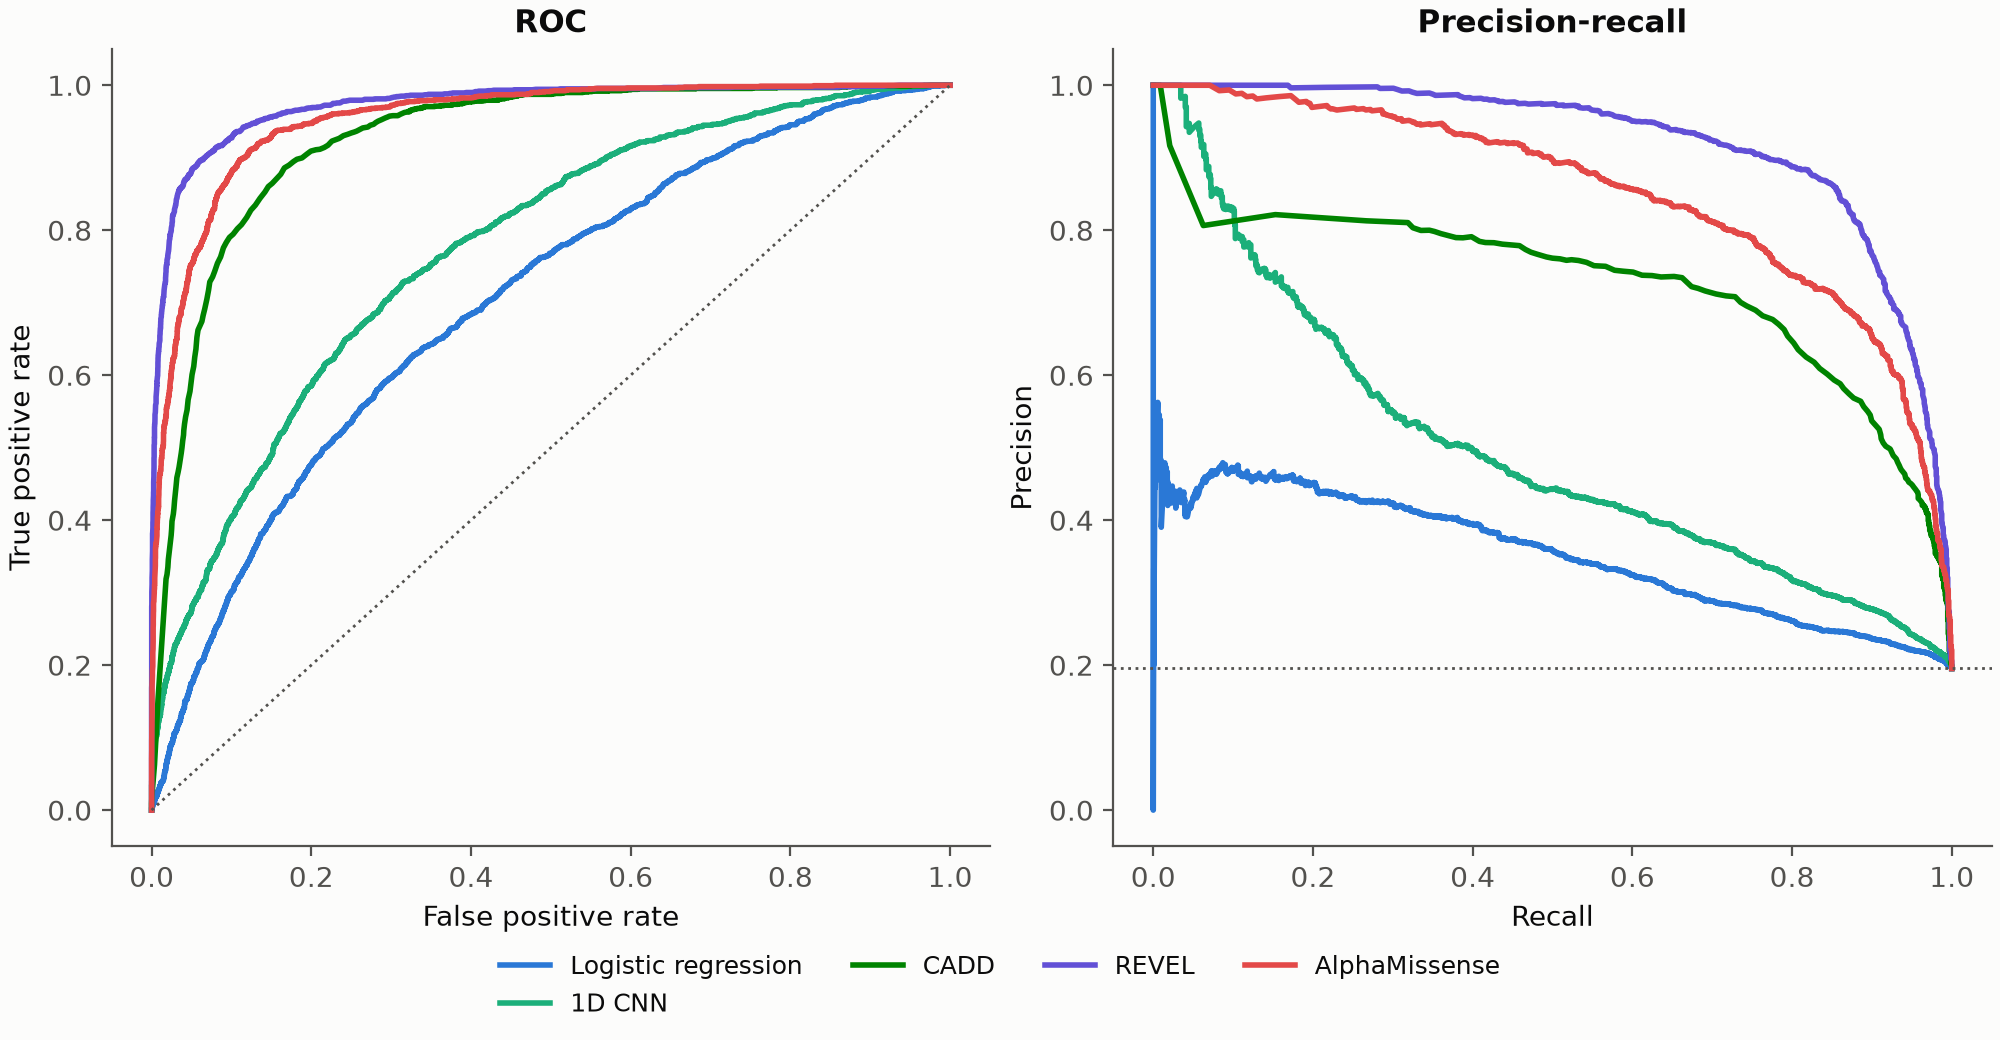
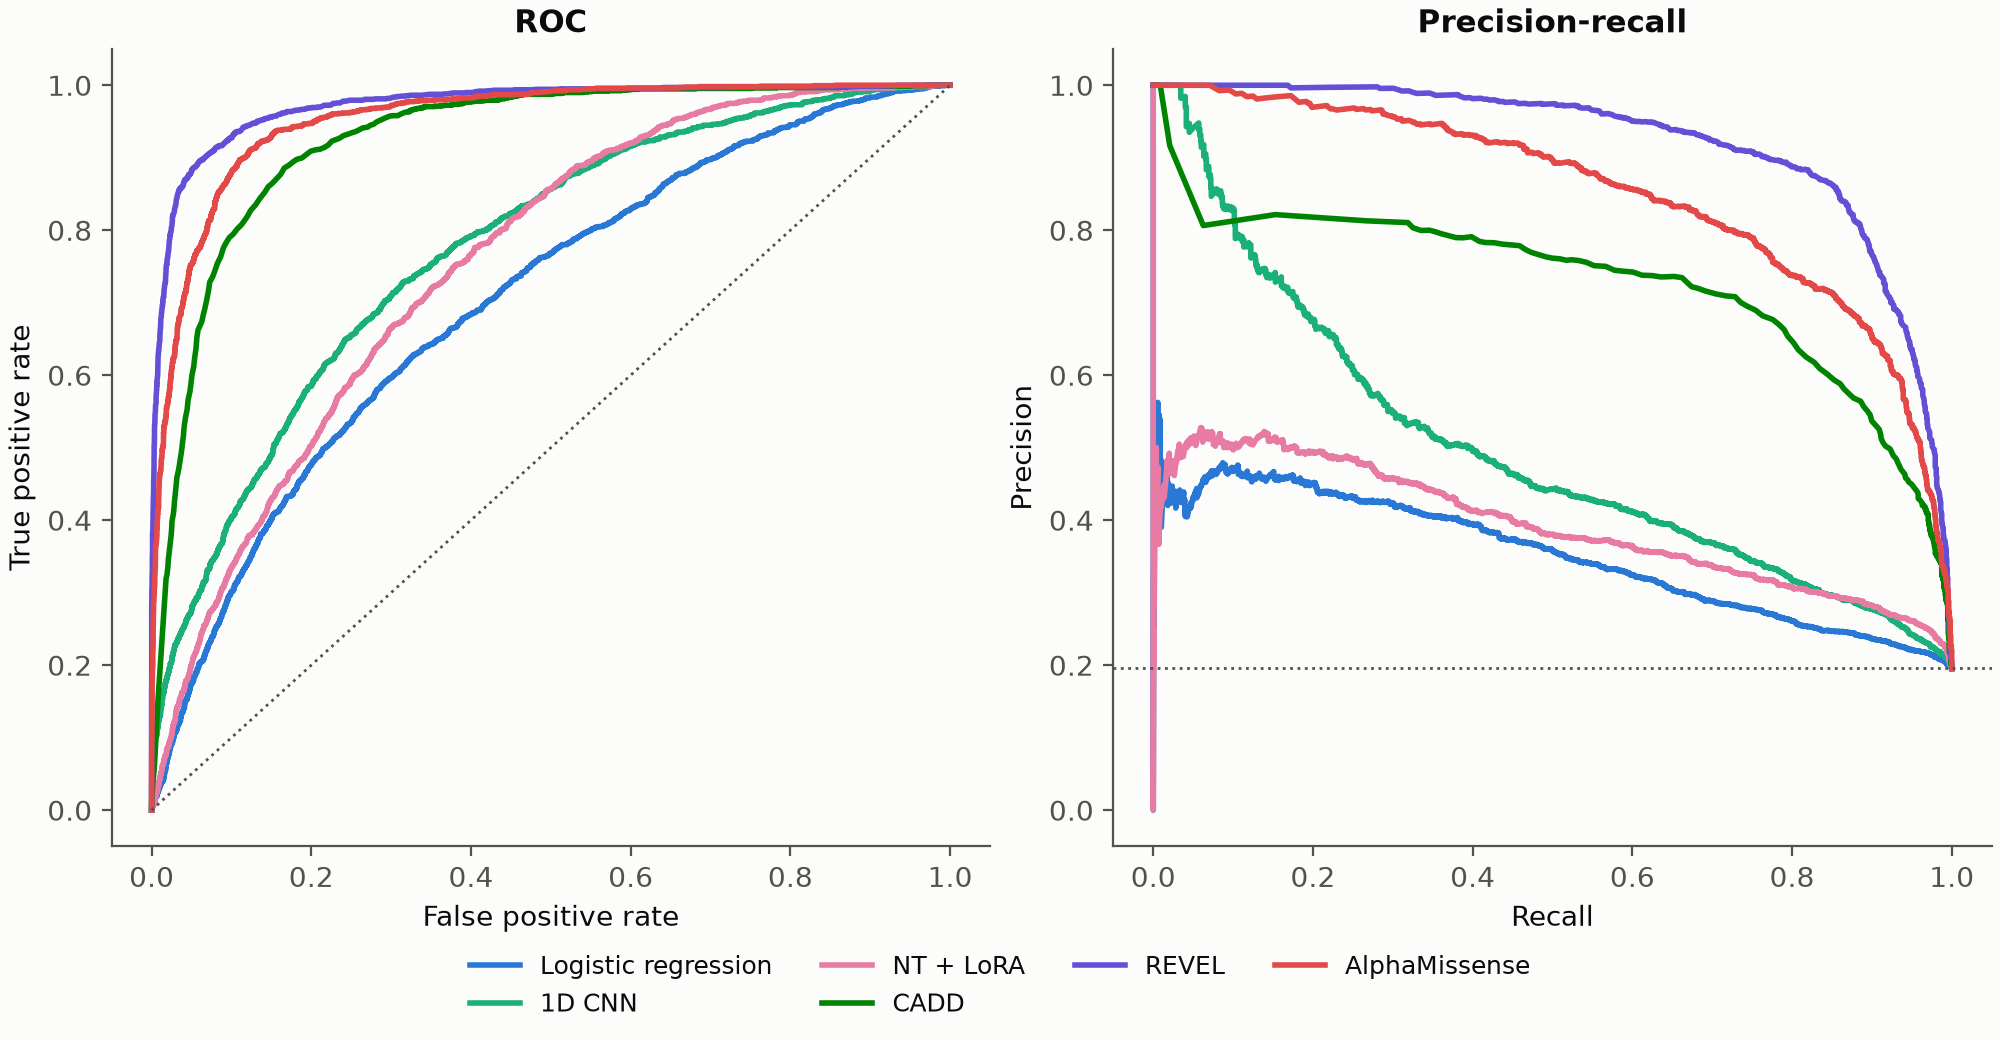
Add transformer results

diff --git a/reports/REPORT.md b/reports/REPORT.md
@@ -39,20 +39,22 @@ external tool, so all rows use identical variants.
 | AlphaMissense | 0.954 (0.941-0.967) | 0.851 (0.789-0.903) | 0.959 |
 | CADD | 0.926 (0.909-0.945) | 0.723 (0.634-0.809) | 0.912 |
 | 1D CNN | 0.775 (0.745-0.804) | 0.497 (0.388-0.591) | 0.753 |
+| NT + LoRA | 0.754 (0.713-0.789) | 0.391 (0.304-0.472) | 0.662 |
 | Logistic regression | 0.701 (0.678-0.727) | 0.352 (0.277-0.440) | 0.676 |
 
 - The best sequence-only model is 1D CNN, AUROC 0.775.
+- The transformer changes AUROC by -0.021 compared with the CNN.
 - Against REVEL the difference is -0.198 (95% CI -0.229 to -0.168, resampling genes).
 
 ![ROC and PR curves](figures/04_roc_pr.png)
 
 ### By review status
 
-| Review status | n | Pathogenic | Logistic regression | 1D CNN | CADD | REVEL | AlphaMissense |
-|---|---:|---:|:---:|:---:|:---:|:---:|:---:|
-| 1 star | 5,513 | 937 | 0.741 | 0.796 | 0.926 | 0.968 | 0.954 |
-| 2 stars | 2,577 | 615 | 0.634 | 0.733 | 0.922 | 0.979 | 0.952 |
-| 3+ stars | 78 | 44 | 0.738 | 0.807 | 0.916 | 0.999 | 1.000 |
+| Review status | n | Pathogenic | Logistic regression | 1D CNN | NT + LoRA | CADD | REVEL | AlphaMissense |
+|---|---:|---:|:---:|:---:|:---:|:---:|:---:|:---:|
+| 1 star | 5,513 | 937 | 0.741 | 0.796 | 0.768 | 0.926 | 0.968 | 0.954 |
+| 2 stars | 2,577 | 615 | 0.634 | 0.733 | 0.727 | 0.922 | 0.979 | 0.952 |
+| 3+ stars | 78 | 44 | 0.738 | 0.807 | 0.718 | 0.916 | 0.999 | 1.000 |
 
 ![AUROC by review status](figures/06_by_review_status.png)
 
@@ -60,6 +62,7 @@ external tool, so all rows use identical variants.
 
 - Logistic regression: ECE 0.053
 - 1D CNN: ECE 0.043
+- NT + LoRA: ECE 0.032
 
 ![Calibration](figures/05_calibration.png)
 
@@ -78,3 +81,4 @@ external tool, so all rows use identical variants.
 
 - Logistic regression: `{"name": "logreg_kmer", "data": "data/processed/variants.parquet", "flank_in": 512, "context_flank": 50, "context_k": 4, "delta_k": 6, "C": 0.1, "max_iter": 2000, "seed": 42}`
 - 1D CNN: `{"name": "cnn_onehot", "data": "data/processed/variants.parquet", "flank_in": 512, "flank": 100, "channels": 128, "dropout": 0.3, "epochs": 10, "batch_size": 256, "lr": 0.001, "weight_decay": 0.0001, "patience": 3, "rc_augment": true, "seed": 42}`
+- NT + LoRA: `{"n_train": 60000, "epochs": 3, "batch_size": 16, "grad_accum": 2, "lr_lora": 0.0001, "lr_head": 0.001, "lora_r": 8, "seed": 0}`

diff --git a/README.md b/README.md
@@ -50,9 +50,11 @@ On 8,168 test variants scored by every tool:
 | AlphaMissense | 0.954 (0.941-0.967) | 0.851 (0.789-0.903) | 0.959 |
 | CADD | 0.926 (0.909-0.945) | 0.723 (0.634-0.809) | 0.912 |
 | 1D CNN | 0.775 (0.745-0.804) | 0.497 (0.388-0.591) | 0.753 |
+| NT + LoRA | 0.754 (0.713-0.789) | 0.391 (0.304-0.472) | 0.662 |
 | Logistic regression | 0.701 (0.678-0.727) | 0.352 (0.277-0.440) | 0.676 |
 
 - The best sequence-only model is 1D CNN, AUROC 0.775.
+- The transformer changes AUROC by -0.021 compared with the CNN.
 - Against REVEL the difference is -0.198 (95% CI -0.229 to -0.168, resampling genes).
 
 Full write-up: [`reports/REPORT.md`](reports/REPORT.md).

diff --git a/reports/results/summary.md b/reports/results/summary.md
@@ -1,4 +1,5 @@
 | model | test AUROC | test AUPRC | val AUROC | val AUPRC | n test |
 |---|---|---|---|---|---|
 | cnn_onehot | 0.772 [0.758-0.784] | 0.493 [0.470-0.517] | 0.784 | 0.550 | 8677 |
+| nt_lora | 0.752 [0.739-0.764] | 0.389 [0.368-0.413] | 0.745 | 0.493 | 8677 |
 | logreg_kmer | 0.699 [0.685-0.715] | 0.350 [0.329-0.375] | 0.696 | 0.428 | 8677 |
